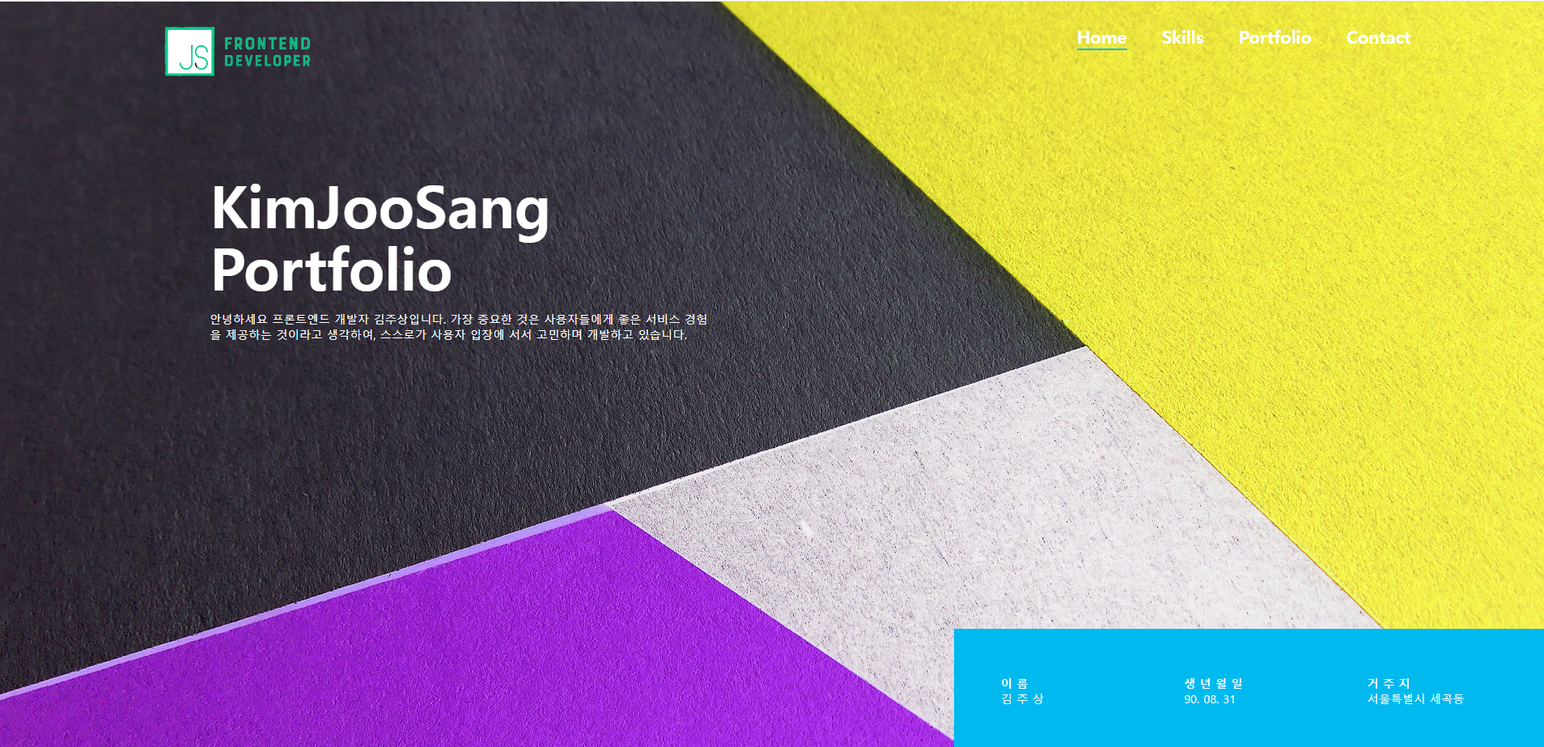
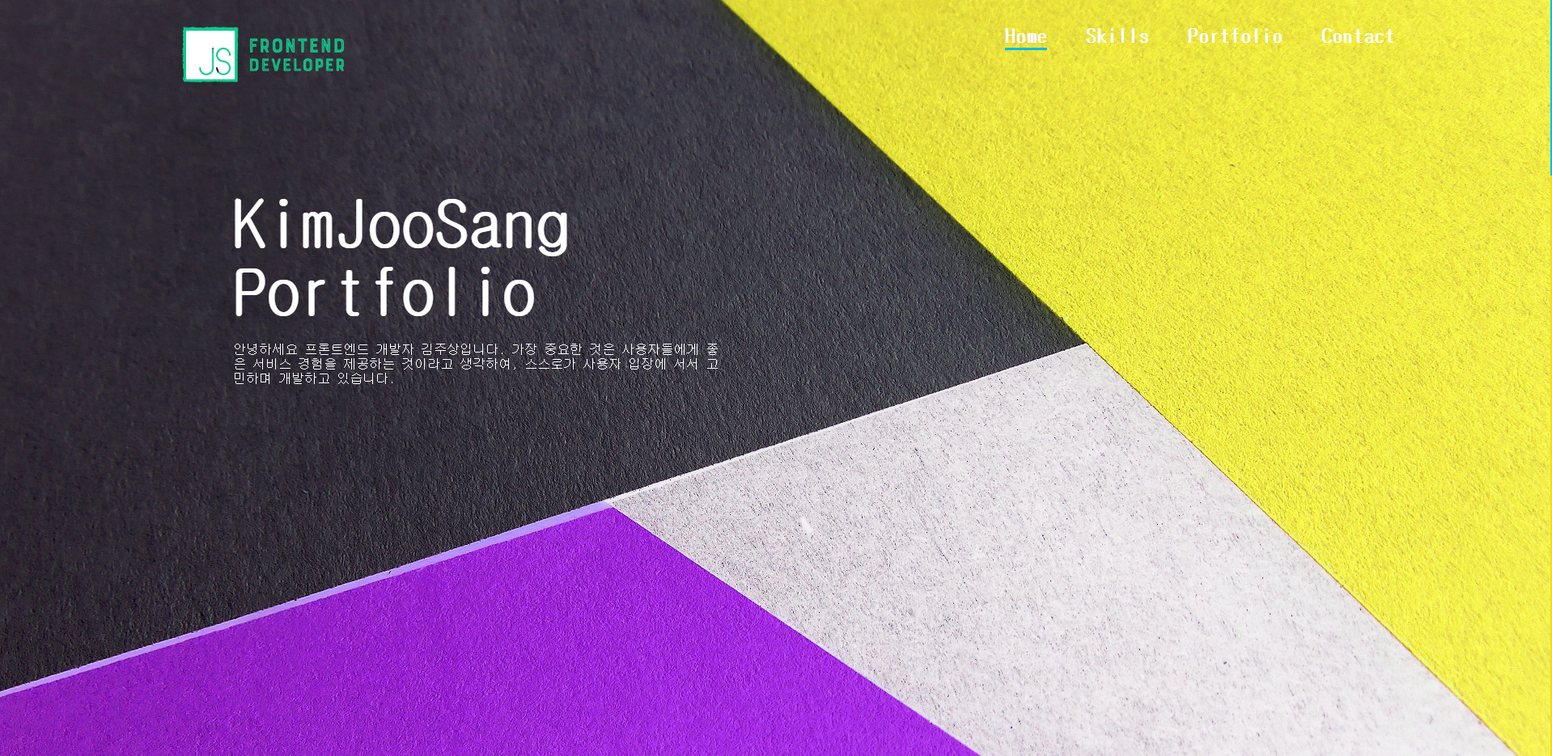
scroll_to_top 작성

diff --git a/src/components/Contact.jsx b/src/components/Contact.jsx
@@ -5,7 +5,7 @@ import Title from "./Title";
 function Contact() {
   return (
     <Section id="contact">
-      <Title name="contact" />
+      <Title name="contact" left="0.5rem" />
       <div className="contact">
         <div className="contactTitle">
           <p>안녕하세요!</p>
@@ -33,8 +33,8 @@ function Contact() {
                 <strong>주 소</strong> 서울특별시 세곡동
               </p>
               <p>
-                <strong>교 육 과 정</strong> 청년취업사관학교(SeSAC) MSA
-                스페셜리스트 과정
+                <strong>교 육 과 정</strong> 청년취업사관학교 MSA 스페셜리스트
+                과정
               </p>
             </div>
           </div>
@@ -52,16 +52,18 @@ function Contact() {
 
 const Section = styled.section`
   min-height: 100vh;
+  padding-top: 1px;
   .contact {
-    color: var(--primary-color);
+    color: black;
     margin: 0 23rem;
     .contactTitle {
-      margin: 6rem 0;
+      margin: 8rem 0;
       p {
         letter-spacing: 0.2rem;
+        color: var(--tertiary-color);
       }
       h2 {
-        color: var(--secondary-color);
+        color: var(--tertiary-color);
         font-size: 2rem;
       }
     }
@@ -83,9 +85,11 @@ const Section = styled.section`
         div {
           p {
             display: flex;
+            box-sizing: border-box;
             strong {
               box-sizing: border-box;
-              width: 10rem;
+              width: 8rem;
+              color: var(--tertiary-color);
             }
           }
         }

diff --git a/src/components/Portfolio.jsx b/src/components/Portfolio.jsx
@@ -65,13 +65,16 @@ function Portfolio() {
 const Section = styled.section`
   min-height: 100vh;
   position: relative;
+  background-color: #433b76;
+
   .decoration {
     position: absolute;
     height: 20rem;
     width: 70vw;
-    border: 0.5rem solid var(--primary-color);
+    border: 0.5rem solid var(--tertiary-color);
     left: 15%;
-    top: -2rem;
+    top: -3rem;
+    opacity: 0.7;
   }
   .portfolios {
     display: grid;
@@ -79,9 +82,13 @@ const Section = styled.section`
     gap: 3rem;
     margin: 5rem 20rem;
     .portfolio {
+      padding: 1rem;
+      margin-top: 4rem;
+      background-color: white;
       display: flex;
       flex-direction: column;
       gap: 1rem;
+      border-radius: 2rem;
     }
     .image {
       height: 22rem;
@@ -102,12 +109,11 @@ const Section = styled.section`
     }
     .subTitle {
       text-align: center;
-      color: var(--primary-color);
+      color: var(--tertiary-color);
       font-weight: bolder;
       text-transform: uppercase;
     }
     .description {
-      text-align: center;
       height: 10rem;
       color: black;
     }
@@ -119,6 +125,8 @@ const Section = styled.section`
       span {
         letter-spacing: 0.1rem;
         text-transform: uppercase;
+        font-weight: bold;
+        color: var(--tertiary-color);
       }
     }
   }

diff --git a/src/components/ScrollToTop.jsx b/src/components/ScrollToTop.jsx
@@ -1,7 +1,49 @@
-import React from "react";
+import React, { useEffect, useState } from "react";
+import styled from "styled-components";
+import { FaChevronUp } from "react-icons/fa";
+import { Link } from "react-router-dom";
 
 function ScrollToTop() {
-  return <div></div>;
+  const [visible, setVisible] = useState(false);
+  useEffect(() => {});
+  window.addEventListener("scroll", () => {
+    window.pageYOffset > 100 ? setVisible(true) : setVisible(false);
+  });
+  return (
+    <Div>
+      <a href="#" className={`${visible ? "block" : "none"}`}>
+        <FaChevronUp />
+      </a>
+      {/* <Link to="/" className={`${visible ? "block" : "none"}`}>
+         <FaChevronUp />
+       </Link> */}
+    </Div>
+  );
 }
+
+const Div = styled.div`
+  max-width: 100vw;
+  .none {
+    opacity: 0;
+    visibility: hidden;
+  }
+  a {
+    position: fixed;
+    bottom: 40px;
+    right: 40px;
+    background-color: var(--secondary-color);
+    padding: 1rem;
+    border-radius: 100%;
+    display: flex;
+    justify-content: center;
+    align-items: center;
+    transition: 0.4s ease-in-out;
+    z-index: 1;
+    svg {
+      color: white;
+      font-size: 1.3rem;
+    }
+  }
+`;
 
 export default ScrollToTop;

diff --git a/src/components/Home.jsx b/src/components/Home.jsx
@@ -24,7 +24,7 @@ function Home() {
           </div>
         </div>
       </div>
-      <div className="info">
+      {/* <div className="info">
         <div className="grid">
           <div className="col">
             <strong>이 름</strong>
@@ -51,7 +51,7 @@ function Home() {
             <p>MSA 스페셜리스트 과정</p>
           </div>
         </div>
-      </div>
+      </div> */}
     </Section>
   );
 }

diff --git a/src/components/Title.jsx b/src/components/Title.jsx
@@ -13,10 +13,10 @@ const Div = styled.div`
   position: relative;
   h1 {
     position: absolute;
-    transform: translateX(-42%) translateY(20vw) rotate(-90deg);
+    transform: translateX(-40%) translateY(20vw) rotate(-90deg);
     font-size: 7rem;
     text-transform: uppercase;
-    color: var(--secondary-color);
+    color: var(--primary-color);
     font-weight: 200;
     margin-left: ${(props) => props.left};
   }

diff --git a/src/index.js b/src/index.js
@@ -5,9 +5,7 @@ import { BrowserRouter } from "react-router-dom";
 
 const root = ReactDOM.createRoot(document.getElementById("root"));
 root.render(
-  <React.StrictMode>
-    <BrowserRouter>
-      <App />
-    </BrowserRouter>
-  </React.StrictMode>
+  <BrowserRouter>
+    <App />
+  </BrowserRouter>
 );

diff --git a/src/components/Navbar.jsx b/src/components/Navbar.jsx
@@ -17,7 +17,7 @@ function Navbar() {
       <div className="links">
         <ul>
           <li>
-            <Link to="/home">Home</Link>
+            <Link to="/">Home</Link>
           </li>
           <li>
             <Link to="/skills">Skills</Link>

diff --git a/src/GlobalStyle.js b/src/GlobalStyle.js
@@ -6,6 +6,7 @@ const GlobalStyle = createGlobalStyle`
 :root {
   --primary-color: #eeda25;
   --secondary-color: #00b9ef;
+  --tertiary-color: #d5648a;
   --font-family: 'Roboto Mono', monospace, "Poppins", sans-serif;
 }
 

diff --git a/src/components/Skills.jsx b/src/components/Skills.jsx
@@ -70,7 +70,6 @@ function Skills() {
 const Section = styled.section`
   overflow: hidden;
   .container {
-    background-color: #fff78d;
     min-height: 100vh;
     display: flex;
     flex-direction: column;
